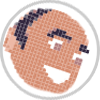
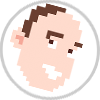
updated profile images, updated topper's post

diff --git a/sass/screen.scss b/sass/screen.scss
@@ -32,8 +32,16 @@ article {
     font-size: 40px !important;
     line-height: 1.3em !important;
 
+    @media screen and (max-width: 600px) {
+      font-size: 1.5em !important;
+    }
+
     a {
+      color: #258fb8 !important;
+      @include transition-property(color);
+      @include transition-duration(.15s);
       &:hover {
+        color: tint(#258fb8, 30%) !important;
         text-shadow: none;
         @include transition-property(color);
         @include transition-duration(.15s);
@@ -56,21 +64,6 @@ article {
     margin: 0 auto;
     padding: 22px 0;
     font-style: normal;
-    background-image: url(/images/brian8bit.png);
-    background-repeat: no-repeat;
-    background-size: 100px;
-    @include transition-property(background-image);
-    @include transition-duration(.15s);
-
-    &:hover {
-      background-image: url(/images/brian.png);
-      @include transition-property(background-image);
-      @include transition-duration(.15s);
-    }
-
-    &.comments {
-      background-image: none;
-    }
   }
 
   .entry-content {
@@ -83,6 +76,7 @@ article {
 
     @media screen and (max-width: 600px) {
       background-size: 80%;
+      padding-top: 60px;
     }
 
     h2 {
@@ -136,6 +130,54 @@ article {
   }
 }
 
+.BowersPic {
+  &:hover {
+    background-image: url('/images/topper.png');
+    background-position: center 0;
+    background-repeat: no-repeat;
+    img {
+      opacity: 0;
+    }
+  }
+}
+
+.GlusmanPic {
+  &:hover {
+    background-image: url('/images/brian.png');
+    background-position: center 0;
+    background-repeat: no-repeat;
+    img {
+      opacity: 0;
+    }
+  }
+}
+
+.BalsoPic {
+  @include transition-property(all);
+  @include transition-duration(.15s);
+  background-position: center 0;
+  background-repeat: no-repeat;
+
+  img {
+    // @include transition-property(opacity);
+    // @include transition-duration(.15s);
+    // opacity: 1;
+  }
+
+  &:hover {
+    @include transition-property(all);
+    @include transition-duration(.15s);
+    background-image: url('/images/adrian.png');
+    background-position: center 0;
+    background-repeat: no-repeat;
+
+    img {
+      // @include transition-property(opacity);
+      // @include transition-duration(.15s);
+      opacity: 0;
+    }
+  }
+}
 .post .meta .date::before, .post .meta .tags::before, .post .meta .comments::before {
   content: none;
 }

diff --git a/source/_includes/article.html b/source/_includes/article.html
@@ -7,7 +7,7 @@
 		{% endif %}
 			{% if site.titlecase %}{{ post.title | titlecase }}{% else %}{{ post.title }}{% endif %}</a>
 	</h2>
-	
+
     <div class="entry-content">
 		{{ content | excerpt }}
 		{% capture excerpted %}{{ content | has_excerpt }}{% endcapture %}
@@ -21,9 +21,10 @@
 		<div class="meta">
 				{% include post/author.html %}
 	  		<div class="date">{% include post/date.html %}{{ time }}</div>
+	  		<div class="tags">{% include post/categories.html %}</div>
 		</div>
 	</div>
-<div class="meta comments">
+<div class="meta">
 	{% if site.disqus_short_name and site.disqus_show_comment_count == true %}
 		<span class="comments"><a href="{{ root_url }}{{ post.url }}{{ page.url }}#disqus_thread">Comments</a></span>
 	{% endif %}

diff --git a/sass/parts/_article.scss b/sass/parts/_article.scss
@@ -20,7 +20,7 @@ article{
 	}
 
 .title a{
-    color:#7c7873;
+    color: #258fb8;
     -webkit-transition:all 1s ease-in-out;
     -moz-transition:all 1s ease-in-out;
     -o-transition:all 1s ease-in-out;
@@ -37,8 +37,13 @@ article{
 		line-height: 2;
 		text-align: justify;
 		a{
+			@include transition-property(color);
+      @include transition-duration(.15s);
 			&:hover{
-				text-decoration: underline;
+				text-decoration: none;
+				color: tint(#258fb8, 30%);
+				@include transition-property(color);
+        @include transition-duration(.15s);
 			}
 		}
 		.more-link{

diff --git a/source/_includes/post/author.html b/source/_includes/post/author.html
@@ -1,10 +1,18 @@
 {% if post.author %}
   {% assign author = post.author %}
+  {% assign picture = post.picture %}
 {% elsif page.author %}
   {% assign author = page.author %}
+  {% assign picture = page.picture %}
 {% else %}
   {% assign author = site.author %}
 {% endif %}
 {% if author %}
-	<div class="byline author vcard">by <span class="fn">{{ author }}</span></div>
+  <div class="{{ author }}Pic">
+    <img src="{{ picture }}" />
+  </div>
+  <div class="byline author vcard">
+    by 
+    <span class="fn">{{ author }}</span>
+  </div>
 {% endif %}
